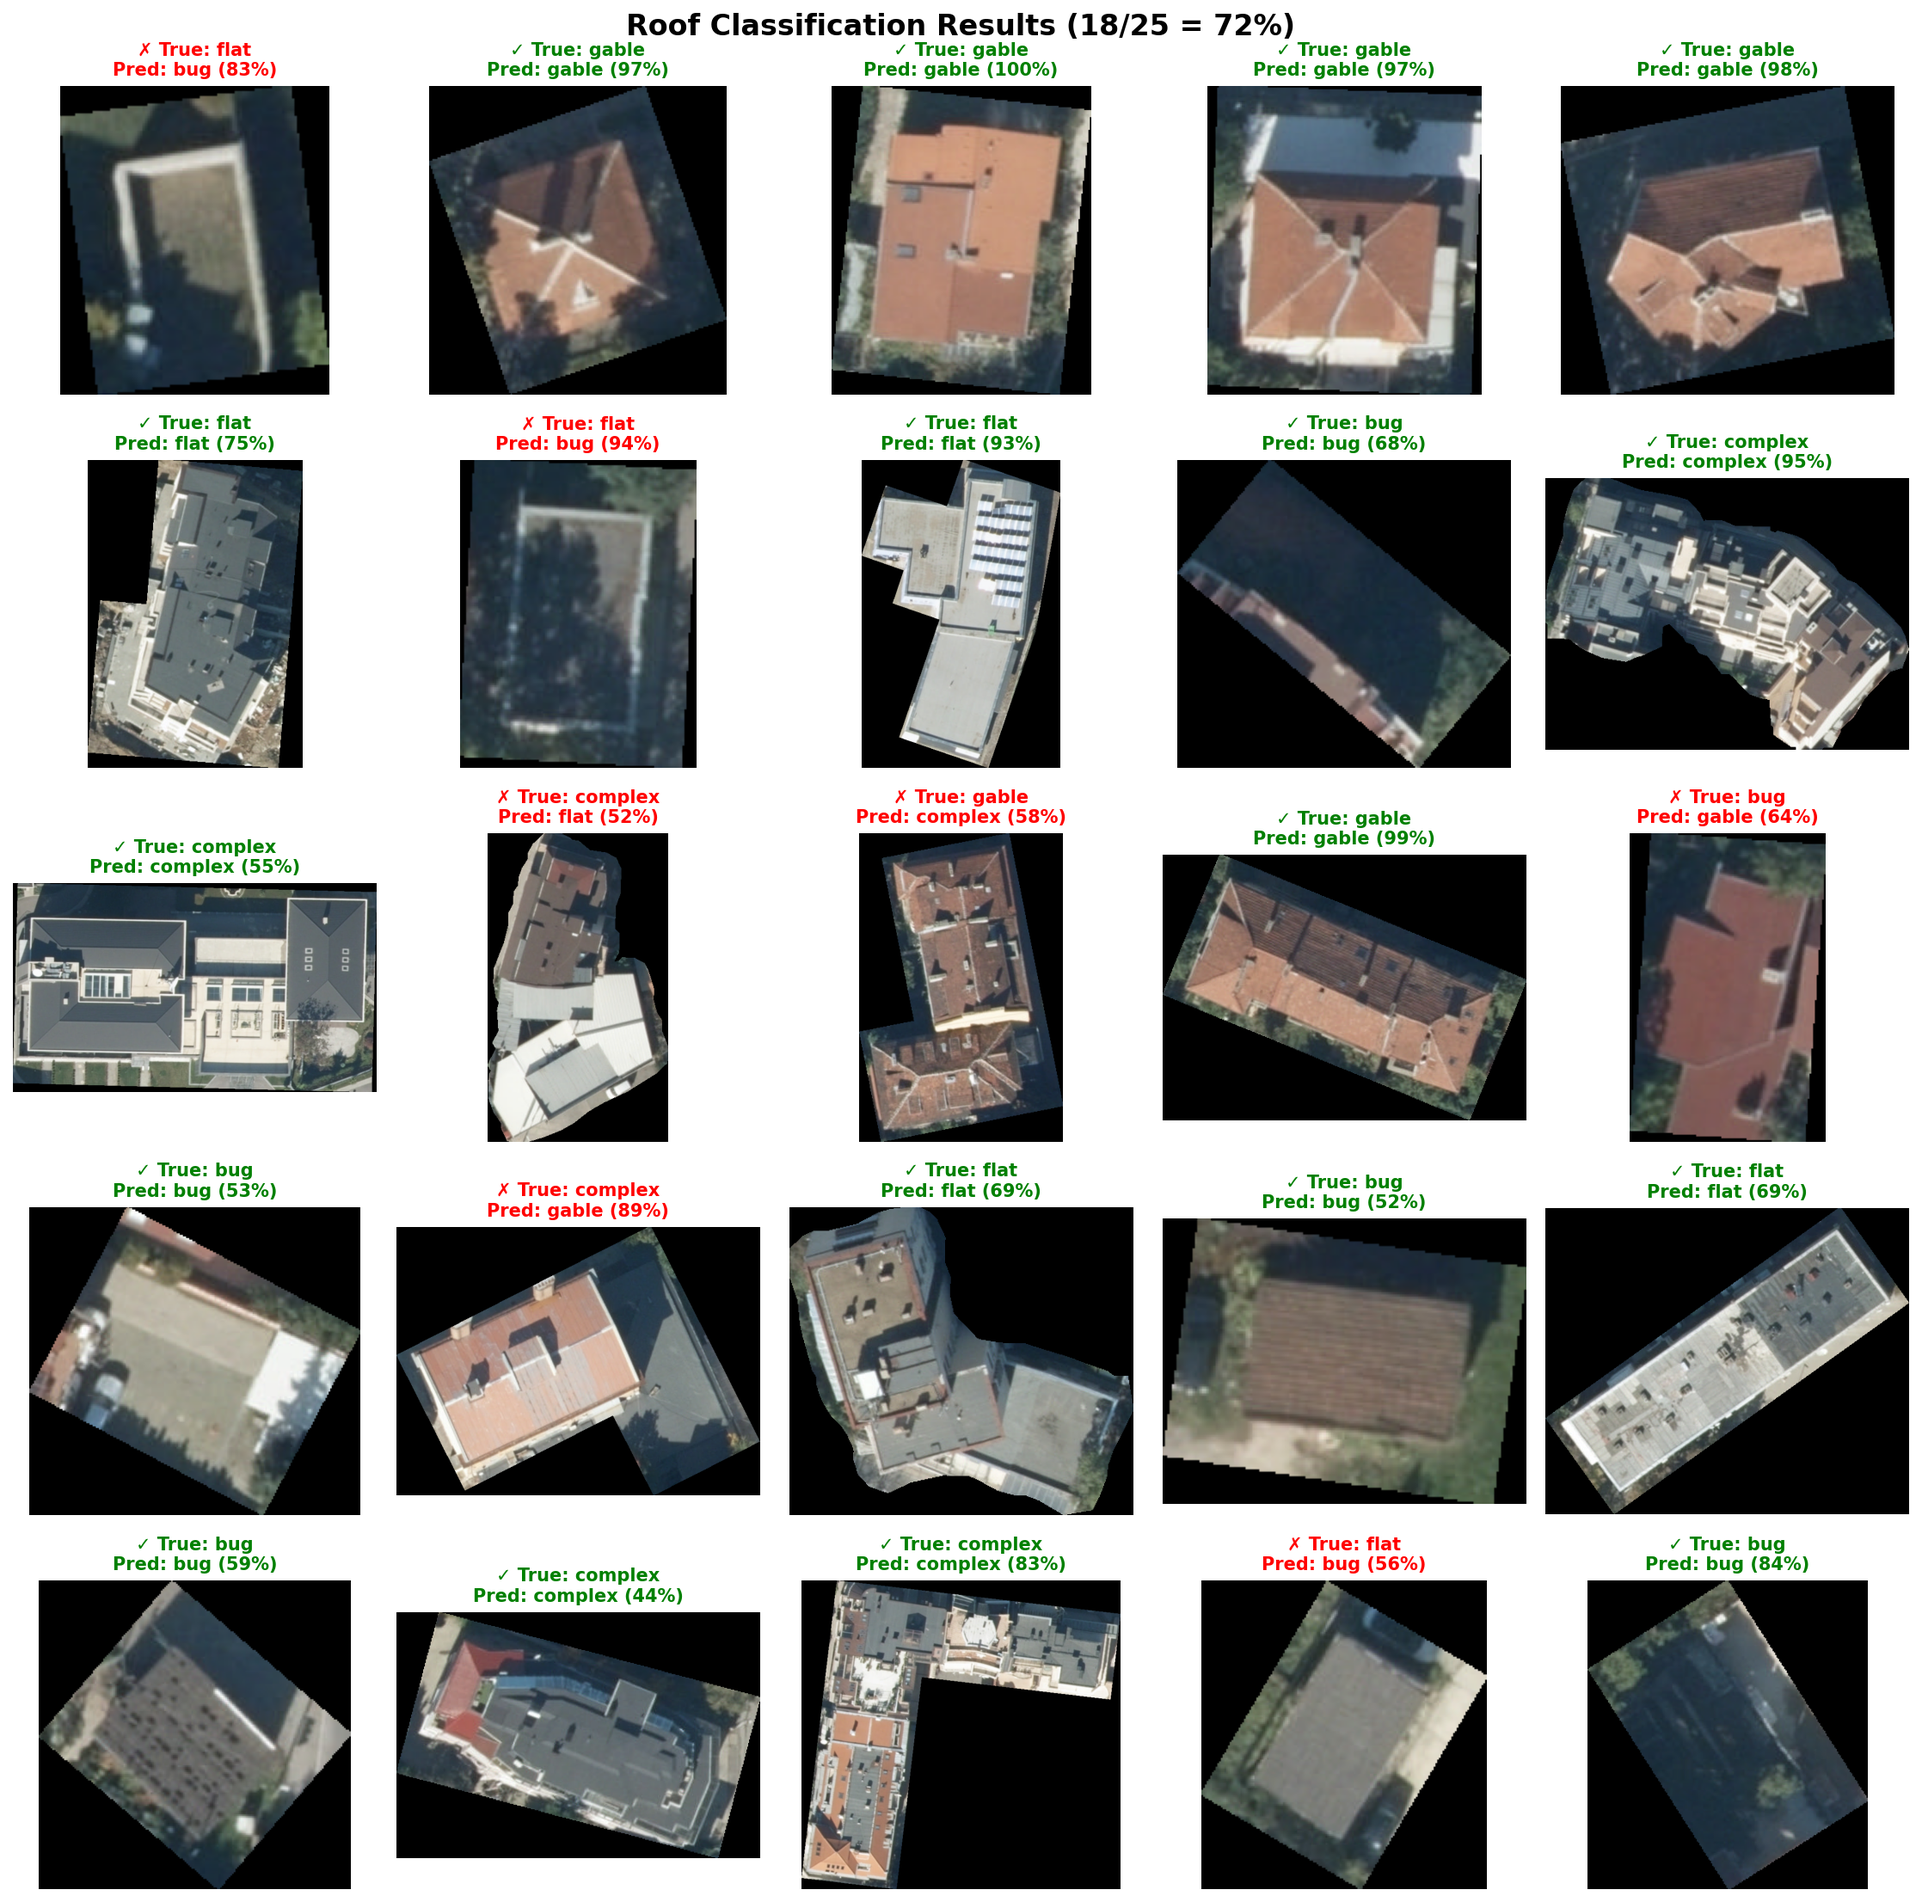
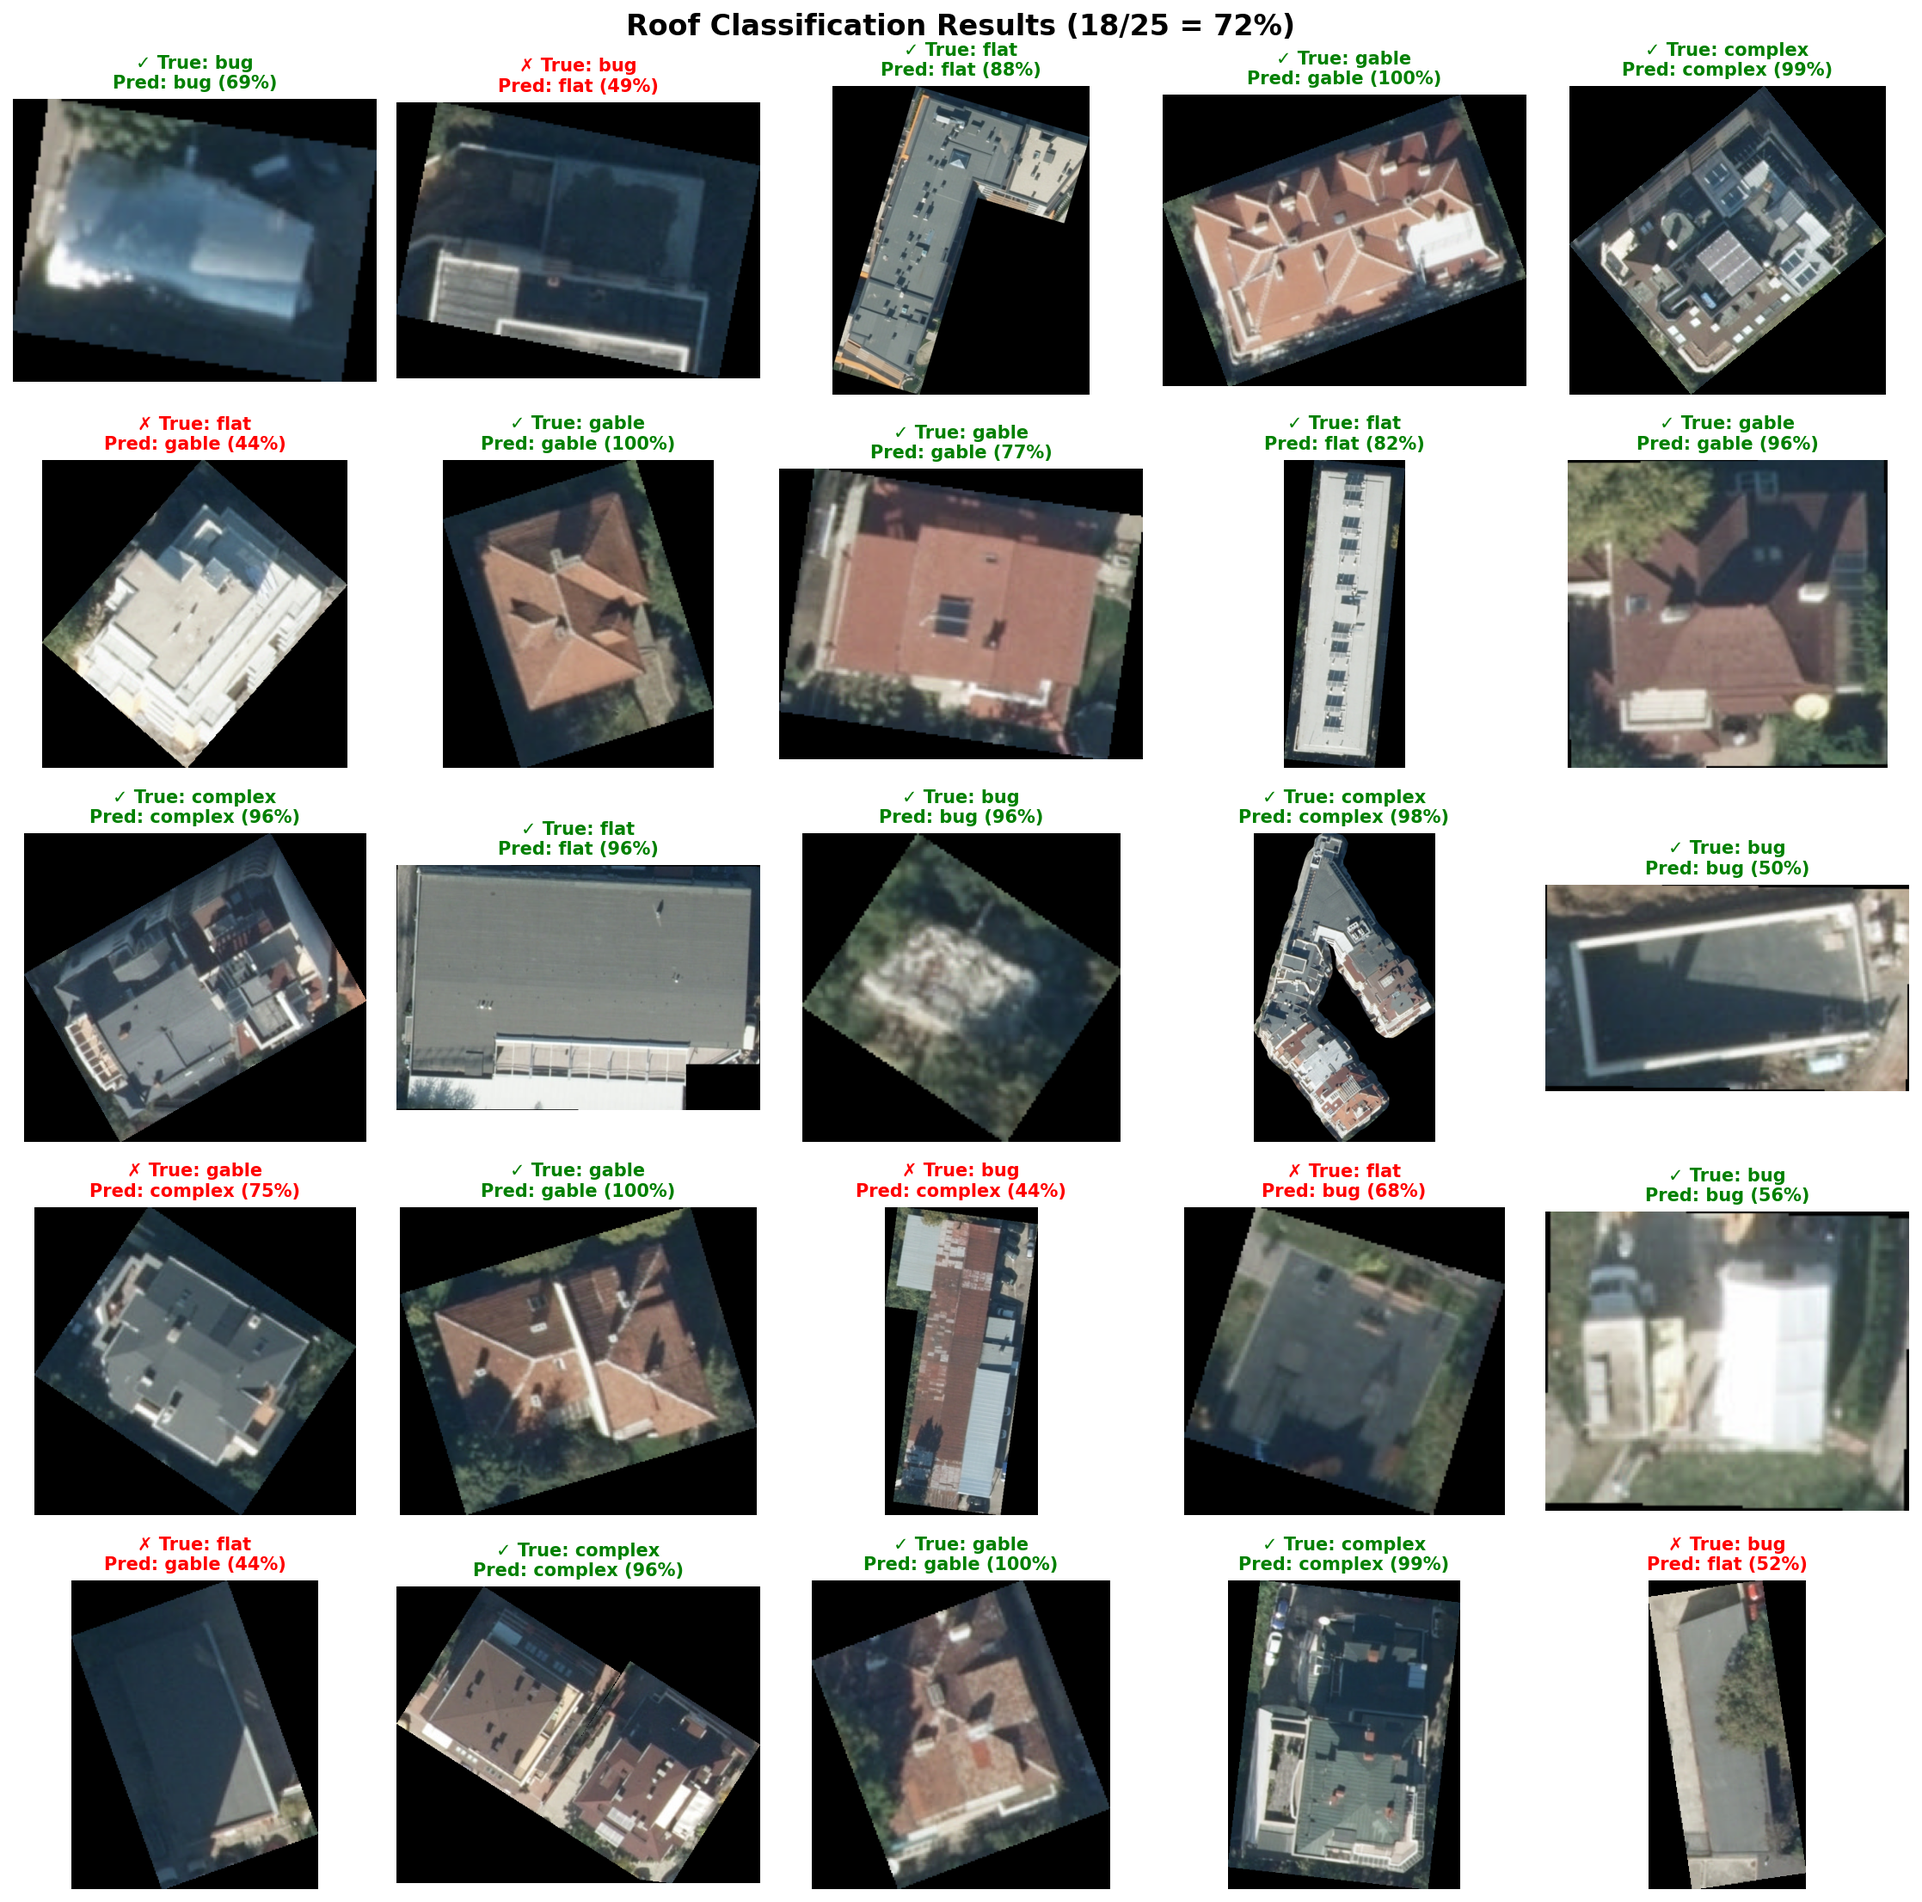
Add aggressive augmentation for domain generalization
New augmentations:
- RandomZoom: 30% prob, 60-140% scale
- RandomBlur: 50% prob, up to 10px Gaussian
- RandomDownscale: 50% prob, 30-100% (simulates low-res)
- RandomGrayscale: 30% prob (grey roof awareness)

Updated parameters:
- Rotation: 90° (was 45°)
- Contrast: 0.8 (was 0.2)
- Saturation: 1.0
- Hue: 0.5 (full color wheel)

diff --git a/scripts/show_augmentations.py b/scripts/show_augmentations.py
@@ -11,7 +11,7 @@ from torchvision import transforms
 
 sys.path.insert(0, str(Path(__file__).parent.parent))
 
-from roofline.data import RandomShadow, RandomTreeOcclusion
+from roofline.data import RandomShadow, RandomTreeOcclusion, RandomZoom, RandomBlur, RandomDownscale
 
 def main():
     data_dir = Path(__file__).parent.parent / "data"
@@ -22,11 +22,17 @@ def main():
     random.shuffle(images)
     images = images[:4]
 
+    # Augmentations
+    rotation = transforms.RandomRotation(90)
+    color_jitter = transforms.ColorJitter(contrast=0.8, saturation=1.0, hue=0.5)
+    grayscale = transforms.Grayscale(num_output_channels=3)
+    zoom = RandomZoom(p=1.0, min_scale=0.6, max_scale=1.4)
+    blur = RandomBlur(p=1.0, max_radius=10.0)
+    downscale = RandomDownscale(p=1.0, min_scale=0.3, max_scale=0.3)  # Show worst case
     shadow = RandomShadow(p=1.0, max_coverage=0.4)
     tree = RandomTreeOcclusion(p=1.0, max_coverage=0.9)
-    color_jitter = transforms.ColorJitter(saturation=1.0, hue=0.5)
 
-    fig, axes = plt.subplots(4, 5, figsize=(15, 12))
+    fig, axes = plt.subplots(4, 9, figsize=(27, 12))
 
     for row, img_path in enumerate(images):
         img = Image.open(img_path).convert("RGB").resize((224, 224))
@@ -36,29 +42,53 @@ def main():
         axes[row, 0].set_title("Original" if row == 0 else "")
         axes[row, 0].axis("off")
 
-        # Hue shift
-        color_img = color_jitter(img.copy())
-        axes[row, 1].imshow(color_img)
-        axes[row, 1].set_title("Color Jitter" if row == 0 else "")
+        # Rotation
+        rot_img = rotation(img.copy())
+        axes[row, 1].imshow(rot_img)
+        axes[row, 1].set_title("Rotation 90°" if row == 0 else "")
         axes[row, 1].axis("off")
 
-        # Shadow only
-        shadow_img = shadow(img.copy())
-        axes[row, 2].imshow(shadow_img)
-        axes[row, 2].set_title("Shadow (40%)" if row == 0 else "")
+        # Color jitter
+        color_img = color_jitter(img.copy())
+        axes[row, 2].imshow(color_img)
+        axes[row, 2].set_title("Color Jitter" if row == 0 else "")
         axes[row, 2].axis("off")
 
-        # Tree only
-        tree_img = tree(img.copy())
-        axes[row, 3].imshow(tree_img)
-        axes[row, 3].set_title("Tree (90%)" if row == 0 else "")
+        # Grayscale
+        gray_img = grayscale(img.copy())
+        axes[row, 3].imshow(gray_img)
+        axes[row, 3].set_title("Grayscale" if row == 0 else "")
         axes[row, 3].axis("off")
 
-        # All combined
-        all_img = tree(shadow(color_jitter(img.copy())))
-        axes[row, 4].imshow(all_img)
-        axes[row, 4].set_title("All" if row == 0 else "")
+        # Zoom
+        zoom_img = zoom(img.copy())
+        axes[row, 4].imshow(zoom_img)
+        axes[row, 4].set_title("Zoom 60-140%" if row == 0 else "")
         axes[row, 4].axis("off")
+
+        # Blur
+        blur_img = blur(img.copy())
+        axes[row, 5].imshow(blur_img)
+        axes[row, 5].set_title("Blur 10px" if row == 0 else "")
+        axes[row, 5].axis("off")
+
+        # Downscale
+        down_img = downscale(img.copy())
+        axes[row, 6].imshow(down_img)
+        axes[row, 6].set_title("Downscale 30%" if row == 0 else "")
+        axes[row, 6].axis("off")
+
+        # Shadow + Tree
+        occl_img = tree(shadow(img.copy()))
+        axes[row, 7].imshow(occl_img)
+        axes[row, 7].set_title("Shadow+Tree" if row == 0 else "")
+        axes[row, 7].axis("off")
+
+        # All combined
+        all_img = tree(shadow(downscale(blur(zoom(grayscale(color_jitter(rotation(img.copy()))))))))
+        axes[row, 8].imshow(all_img)
+        axes[row, 8].set_title("All Combined" if row == 0 else "")
+        axes[row, 8].axis("off")
 
     plt.suptitle("Data Augmentations", fontsize=16, fontweight="bold")
     plt.tight_layout()

diff --git a/roofline/data.py b/roofline/data.py
@@ -10,6 +10,88 @@ from torch.utils.data import Dataset
 from torchvision import transforms
 
 
+class RandomDownscale:
+    """Random downscale then upscale (simulates lower resolution source)."""
+
+    def __init__(self, p: float = 0.5, min_scale: float = 0.3, max_scale: float = 1.0):
+        self.p = p
+        self.min_scale = min_scale
+        self.max_scale = max_scale
+
+    def __call__(self, img: Image.Image) -> Image.Image:
+        if random.random() > self.p:
+            return img
+
+        w, h = img.size
+        scale = random.uniform(self.min_scale, self.max_scale)
+
+        # Downscale
+        small_w = max(1, int(w * scale))
+        small_h = max(1, int(h * scale))
+        small = img.resize((small_w, small_h), Image.BILINEAR)
+
+        # Upscale back to original
+        return small.resize((w, h), Image.BILINEAR)
+
+
+class RandomBlur:
+    """Random Gaussian blur."""
+
+    def __init__(self, p: float = 0.5, max_radius: float = 10.0):
+        self.p = p
+        self.max_radius = max_radius
+
+    def __call__(self, img: Image.Image) -> Image.Image:
+        if random.random() > self.p:
+            return img
+        from PIL import ImageFilter
+        radius = random.uniform(0.5, self.max_radius)
+        return img.filter(ImageFilter.GaussianBlur(radius=radius))
+
+
+class RandomZoom:
+    """Random zoom in/out augmentation.
+
+    Zooms between min_scale and max_scale, padding or cropping as needed.
+    """
+
+    def __init__(self, p: float = 0.3, min_scale: float = 0.6, max_scale: float = 1.4):
+        self.p = p
+        self.min_scale = min_scale
+        self.max_scale = max_scale
+
+    def __call__(self, img: Image.Image) -> Image.Image:
+        if random.random() > self.p:
+            return img
+
+        w, h = img.size
+        scale = random.uniform(self.min_scale, self.max_scale)
+
+        new_w = int(w * scale)
+        new_h = int(h * scale)
+
+        # Resize
+        resized = img.resize((new_w, new_h), Image.BILINEAR)
+
+        if scale > 1.0:
+            # Zoom in: crop center
+            left = (new_w - w) // 2
+            top = (new_h - h) // 2
+            result = resized.crop((left, top, left + w, top + h))
+        else:
+            # Zoom out: pad with edge pixels
+            result = Image.new("RGB", (w, h))
+            # Fill with average edge color
+            avg_color = tuple(int(c) for c in np.array(img).mean(axis=(0, 1)))
+            result.paste(avg_color, (0, 0, w, h))
+            # Paste resized in center
+            left = (w - new_w) // 2
+            top = (h - new_h) // 2
+            result.paste(resized, (left, top))
+
+        return result
+
+
 class RandomShadow:
     """Apply random shadow (darkened polygon) to image.
 
@@ -159,8 +241,12 @@ def get_train_transforms() -> transforms.Compose:
         transforms.Resize((224, 224)),
         transforms.RandomHorizontalFlip(),
         transforms.RandomVerticalFlip(),
-        transforms.RandomRotation(15),
-        transforms.ColorJitter(brightness=0.2, contrast=0.2, saturation=1.0, hue=0.5),
+        transforms.RandomRotation(90),
+        transforms.ColorJitter(brightness=0.2, contrast=0.8, saturation=1.0, hue=0.5),
+        transforms.RandomGrayscale(p=0.3),
+        RandomZoom(p=0.3, min_scale=0.6, max_scale=1.4),
+        RandomBlur(p=0.5, max_radius=10.0),
+        RandomDownscale(p=0.5, min_scale=0.3, max_scale=1.0),
         RandomShadow(p=0.3, max_coverage=0.4),
         RandomTreeOcclusion(p=0.5, max_coverage=0.9),
         transforms.ToTensor(),
